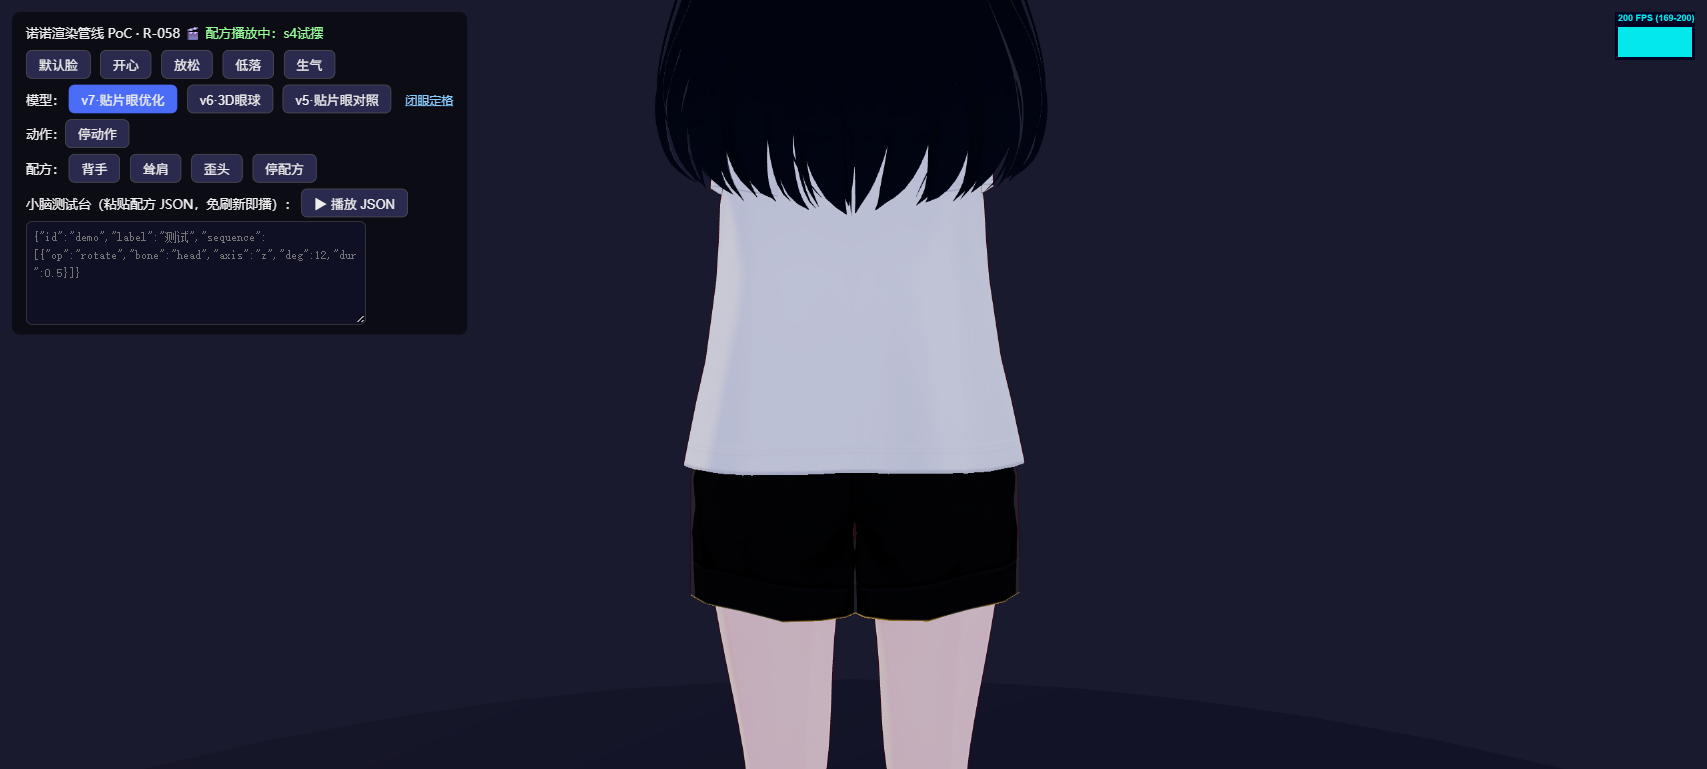
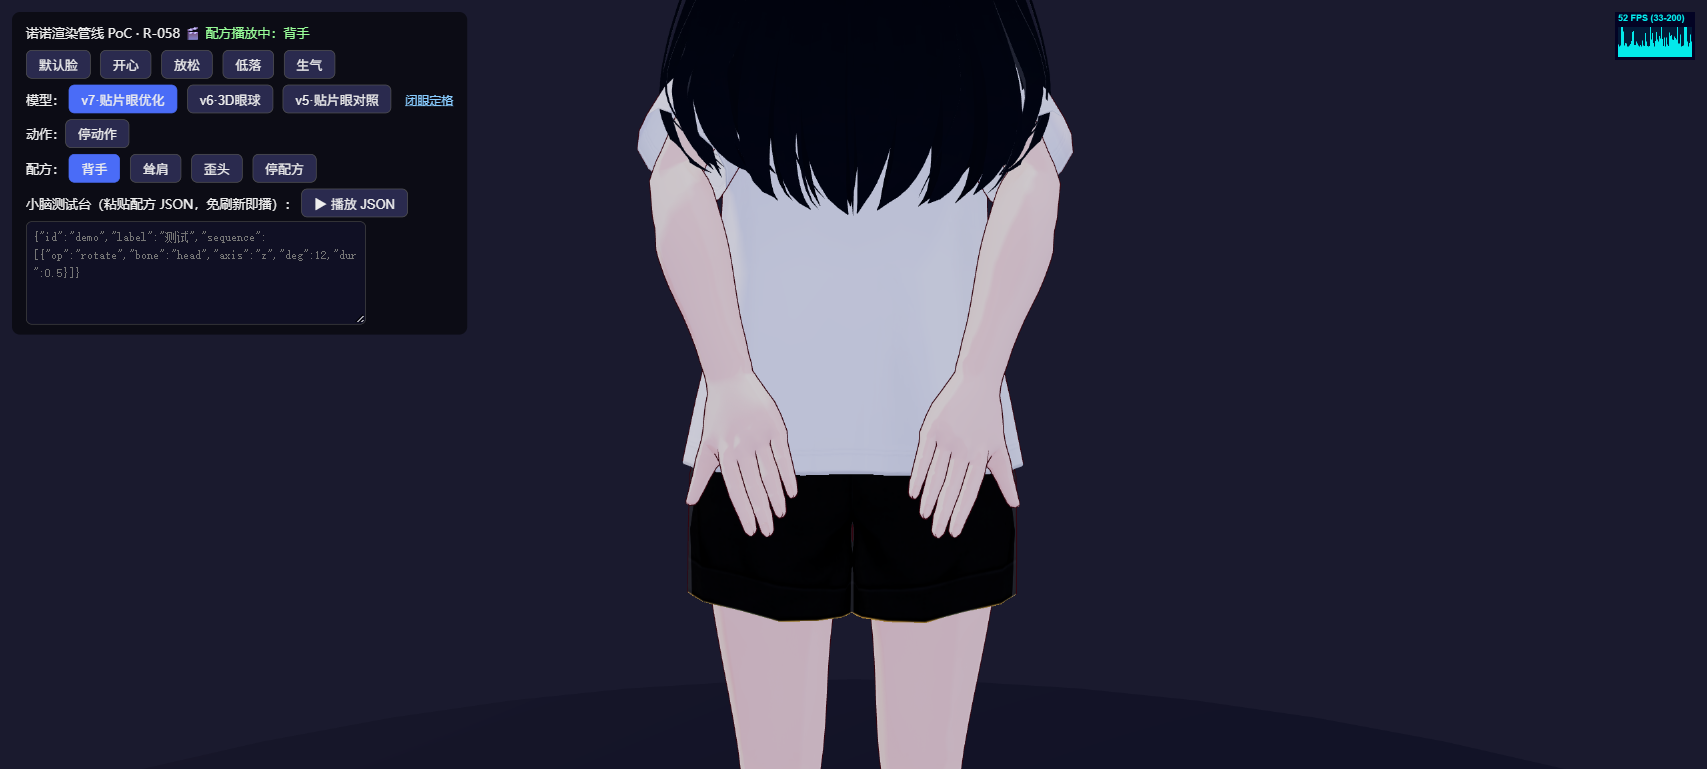
[fix](R-058): 背手v9手埋体腔修复-院长复验v8还是穿模更严重(BUG-090):v8手位(-0.03,0.98,-0.04)整手埋进腹腔被mesh全向包住外部不可见=六视角截图假阴性-根因双层(验收缺运动路径采样+探针restZ弧度混角度致两轮搜索无效)-v9双约束求解(upper y50后摆z-15微内收+lower y35z14前臂折身后,手位±0.10,1.02,-0.22肘贴体侧)-路径采样16点0违例-施工图gate升级六关含动态路径采样-FPS rAF实测202

diff --git a/prd/01-需求文档/04-德塔/bug-log.md b/prd/01-需求文档/04-德塔/bug-log.md
@@ -4,6 +4,21 @@
 
 ---
 
+## 2026-10-05（黑机 BUG-090 背手 v8 手埋入体腔：外部不可见的穿模+探针单位混用——院长复验"还是穿模甚至更严重"，v9 修复）
+
+### BUG-090：背手 v8 结束姿势整只手埋进腹腔（外部任何视角都看不见）——叠加探针单位混用 bug，两轮"验收通过"全为假阴性（院长复验发现，v9 修复）
+
+- **发现时间**：2026-10-05（院长复验 v8："还是穿模，甚至更严重了。你的验收方式是不是有问题"）
+- **环境**：nono-poc `?model=v7` 背手配方 v8
+- **根因（双层）**：
+  1. **v8 姿势本身**：上臂欧拉 z 净值 -93°（过垂直 50°）把手臂折进躯干圆柱——实测结束手位 (-0.03, 0.98, -0.04)=体中线·腹腔深度，**整只手被躯干 mesh 从所有外部视角包住**。v7 的穿模（肘顶衣+指尖外戳）至少可见，v8 手完全没入=渲染上"什么都没有"——我的六视角截图全部"干净"不是视觉问题，是**被埋进体内的手从外面根本看不见**（BUG-089 的修复把可见穿模变成了不可见穿模，故"更严重"）
+  2. **探针单位混用**（调试工具 bug，延误定位两轮）：矩阵探针写 `(restZ + uz_deg)*D`——restZ 是弧度(-0.75)、uz 是度，相加后再乘 π/180 → 实际测试的 z 角比引擎应用值**少 43°**。所有历史直接设值探针（s/c/K 系列）测的都是错误姿势，与执行器实跑结果"矛盾"假象即源于此。修正后（欧拉分量全部用终态角度表达）直接设值与执行器完全一致
+- **修复（v9，双约束数值求解）**：upper y50(水平后摆，臂仍外展时弧线绕过体侧)/z-15(微内收，净-58°=过垂直仅 15°) + lower y35/z-14(前臂折向身后)；实测手位 (±0.10, 1.02, -0.22)、肘 (±0.16, 1.18, -0.11)、指尖朝后下——全部在体体积外；**运动路径采样 16 点 0 违例**（手全程 z≤-0.14 沿背平面后方滑行，先后摆再内移）
+- **验证**：①路径采样 0 违例 ②六视角截图（正/背/侧3-4）无穿模 ③FPS rAF 实测 202（Stats 面板 59 为其采样窗口假象）
+- **教训**：①**静态结束姿势检查≠穿模验收——"埋入体内"的穿模从外部任何视角都不可见**，必须加**运动路径采样**（逐时刻手/足世界坐标 vs 体体积判交）+ 关键骨骼位置数值断言，截图只能抓"露出来"的穿模；②**调试探针本身要先校准**（已知点对质）再用于搜索——单位混用让两轮搜索全做无用功；③"更严重了"的翻译：可见缺陷变不可见缺陷=恶化，**渲染上看不见不等于不存在**；④FPS 验收以 rAF delta 实测为准，Stats 面板读数受其采样窗口影响
+
+---
+
 ## 2026-10-05（黑机 BUG-089 背手配方穿模：肘顶穿 T 恤+指尖戳出体侧——院长复验发现，v8 修复）
 
 ### BUG-089：背手 v7 姿势穿模——内旋 60° 过深把双肘顶出 T 恤背面、前臂折叠过深让指尖戳出体侧（院长复验发现，修复）

diff --git a/prd/01-需求文档/05-美术设计/诺诺/README.md b/prd/01-需求文档/05-美术设计/诺诺/README.md
@@ -79,8 +79,9 @@
 | poc_v7_v3.png | **v7 白块 v3 调试实拍**（2026-10-02）：BUG-083 白块修复 v3（全局裁剪被否决版）时期的渲染记录 | 调试过程存档 |
 | nono_wave_test.png | **动作管线 PoC 验收·Waving 实拍**（2026-10-04）：Mixamo Waving.fbx 经 loadMixamoAnimation 运行时重定向播放，骨架健康无翻转、直播间头胸机位（挥手手臂在画面外，全身机位见 agreeing） | 动作管线验收 |
 | nono_agreeing_test.png | **动作管线 PoC 验收·Agreeing 全身实拍**（2026-10-04）：Waving→Agreeing 按钮切换无残姿，直立骨架+头发 SpringBone 自然，200 FPS | 动作管线验收 |
-| nono_recipe_hands_behind_back.png | **小脑 Phase A 验收·背手配方实拍·正面**（2026-10-05 v8 防穿模定版）：队列条令跨立要领 + 矩阵探针求解（内旋收敛 y25°+垂臂内收 z-50°+肘弯收小 y20°/z-22°），正面手臂完全隐入体后轮廓自然 | 小脑 Phase A 验收 |
-| nono_recipe_hands_behind_back_back.png | **同上·背面实拍（防穿模证据）**：v7 曾被院长复验发现穿模（内旋 60° 过深致双肘顶穿 T 恤背面+指尖戳出体侧，BUG-089）——v8 背面完全干净无穿模；六视角自查（前/后/左右侧/后3-4/手部特写）此后为动作定版硬纪律 | 小脑 Phase A 验收 |
+| nono_recipe_hands_behind_back.png | **小脑 Phase A 验收·背手配方实拍·正面**（2026-10-05 v9 双约束数值求解定版）：upper y50 水平后摆/z-15 微内收 + lower y35/z-14 前臂折向身后，正面手臂完全隐入体后轮廓自然 | 小脑 Phase A 验收 |
+| nono_recipe_hands_behind_back_back.png | **同上·背面实拍**：双手在腰后臀上自然放置、指尖朝下，无穿模无顶包——运动路径采样 16 点 0 违例（手全程 z≤-0.14 背平面后方滑行） | 小脑 Phase A 验收 |
+| nono_recipe_hands_behind_back_side.png | **同上·侧 3/4 实拍**：肘贴体侧、前臂折向身后；手与臀面约 8cm 余隙为风格细节（贴体接触留 hand 骨/IK 阶段精修） | 小脑 Phase A 验收 |
 | nono_recipe_head_tilt.png | **小脑 Phase A 验收·歪头配方实拍**（2026-10-05）：head z+12°+neck z+4° 保持态定格，头部侧倾自然、头发 SpringBone 跟随，表情/眨眼共存 | 小脑 Phase A 验收 |
 | nono_recipe_shoulder_shrug.png | **小脑 Phase A 验收·耸肩配方实拍**（2026-10-05 v2 定版，院长复验反馈"肩带带动整臂上耸、不转肩关节"后重排）：只动 Shoulder 骨（z±10° 微转+translate y 6mm 纯上提），UpperArm 零旋转——肩胛上提的解剖学直译（斜方肌上部/肩胛提肌） | 小脑 Phase A 验收 |
 | nono_recipe_json_bench.png | **小脑 Phase A 验收·JSON 测试台实拍**（2026-10-05）：HUD 粘贴任意配方 JSON 免刷新即播（图中小臂抬测试配方），配方引擎调参工作流成立 | 小脑 Phase A 验收 |

diff --git a/prd/01-需求文档/07-自习室/changelog.md b/prd/01-需求文档/07-自习室/changelog.md
@@ -5,6 +5,13 @@
 
 ---
 
+## 2026-10-05（黑机·BUG-090 背手 v8 手埋体腔修复 + 验收协议升级运动路径采样）
+
+- [修复] **背手配方 v9 双约束数值求解定版**（院长复验 v8："还是穿模，甚至更严重了"）：真相=**v8 结束姿势整只手埋进腹腔**（上臂 z 净 -93° 过垂直 50°，手位 (-0.03,0.98,-0.04) 体中线）——被躯干 mesh 全向包住，六视角截图全"干净"=不可见穿模（可见缺陷变不可见=恶化）。v9=upper y50 水平后摆/z-15 微内收（净-58°）+lower y35/z-14：手 (±0.10,1.02,-0.22) 脊柱旁腰带高体后、肘贴体侧、指尖朝后下，**运动路径采样 16 点 0 违例**（全程 z≤-0.14 沿背平面滑行）；六视角截图干净
+- [根因] **双层**：①验收协议缺**运动路径采样**——静态结束姿势截图抓不住"埋入体内"型穿模（BUG-089 六视角自查的盲区）；②**调试探针单位混用**——矩阵探针 `(restZ弧度+uz度)*D` 把测试 z 角搞少 43°，两轮参数搜索全做无用功且与实跑"矛盾"。BUG-090 登记 bug-log
+- [协议] **施工图 §七入库 gate 升级为六关**：运动路径采样（动态，新增）→ 六视角截图 → 关键骨骼位置数值断言 → Blender 穿模体检（动捕配方必检）→ 骨架健康 → schema 校验；FPS 验收改 rAF delta 实测（Stats 面板读数有采样窗口假象，实测 202 无回归）
+- [存档] 验收图 v9 三视角（正/背/侧3-4）替换 v8 版登记
+
 ## 2026-10-05（黑机·BUG-089 背手穿模修复——院长复验反馈"调试完要自己看一眼"）
 
 - [修复] **背手配方 v8 防穿模定版**（院长复验 v7 发现穿模）：v7 大内旋(y60°)把双肘顶出 T 恤背面（两个尖包）+前臂折叠过深让指尖戳出体侧——根因=只验正面+单侧 3/4 视角（与 BUG-086 强仰视假阴性同族：**复验矩阵必须覆盖全视角**）。v8 参数收敛：内旋 y25°/垂臂内收 z-50°/肘折 y20°·z-22°，手位 (±0.23, 1.02, -0.16)=体侧线外·腰带高·背平面后 4cm；六视角自查（正/背/左右侧/后3-4/手部特写）全干净。**"两手后背"读感由手贴体侧后方达成，双腕交叠细节留 hand 骨/IK 阶段——宁浅勿深，穿模不可接受、交叠锦上添花**。BUG-089 登记 bug-log；施工图 §七入库 gate 新增**六视角视觉自查**关卡

diff --git a/prd/01-需求文档/07-自习室/诺诺小脑架构设计.md b/prd/01-需求文档/07-自习室/诺诺小脑架构设计.md
@@ -184,7 +184,7 @@
 | 动捕编译（=clip） | 步态/舞蹈/杂技级 | 摄像头表演→GVHMR→FBX→**编译器**转配方（Phase B 建） |
 | CC0 改编 | 补充量 | Quaternius 库 FBX 走同一条编译线 |
 
-**入库 gate（所有生产线共用）**：①Blender 穿模体检脚本逐帧测距出报告（§七）→ ②**六视角视觉自查**（正面/背面/左右侧/后 3-4/关节特写——BUG-089 教训：任何单一视角都可能假阴性）→ ③骨架健康检查 → ④配方 JSON schema 校验 → 入配方库。
+**入库 gate（所有生产线共用）**：①**运动路径采样**（配方播放全程逐 ~70ms 采手/足世界坐标，对躯干圆柱体积判定穿交——**"埋入体内"的穿模从外部任何视角都不可见，静态截图抓不住，BUG-090**）→ ②**六视角视觉自查**（正面/背面/左右侧/后 3-4/关节特写）→ ③**关键骨骼位置数值断言**（手/肘锚点 vs 目标区间）→ ④Blender 穿模体检脚本逐帧测距（动捕编译配方必检）→ ⑤骨架健康检查 → ⑥配方 JSON schema 校验 → 入配方库。
 
 **⚠ 轴约定实测（2026-10-05 Phase A 沉淀，手写配方必读）**：引擎的偏移是"叠加在静息姿势上的欧拉分量"，euler-add 实测语义=**RY 最外层（世界系水平摆）/RX 中层/RZ 最内层（随静息系抬沉）**——不是世界轴直转，三轴复合时互相改写效果。单轴速查（左臂，右臂 y/z 反号）：**x+ =手向后摆**、y+ =内旋/水平后收（大角度=前臂绕到体后的主机制）、z+ =上抬（z- =下沉+过中线内收）。四条铁律：①**父骨已旋转后，子骨偏移在父系里生效**——复杂姿势按"先子后父"编排；②**配方参数用矩阵探针求解**：引擎里直接设 euler 组合→量手部世界坐标→锚定目标位置反解，禁止靠正面截图猜深度（v1~v6 六轮误读教训）；③姿势目标用"三维手位锚点"表达（如背手=脊柱旁·腰带高·体后）；④动作要领查权威来源（[常见动作执行要领与生物力学调研](../00-调研/01-技术/常见动作执行要领与生物力学调研.md)），不凭直觉编角度。
 
